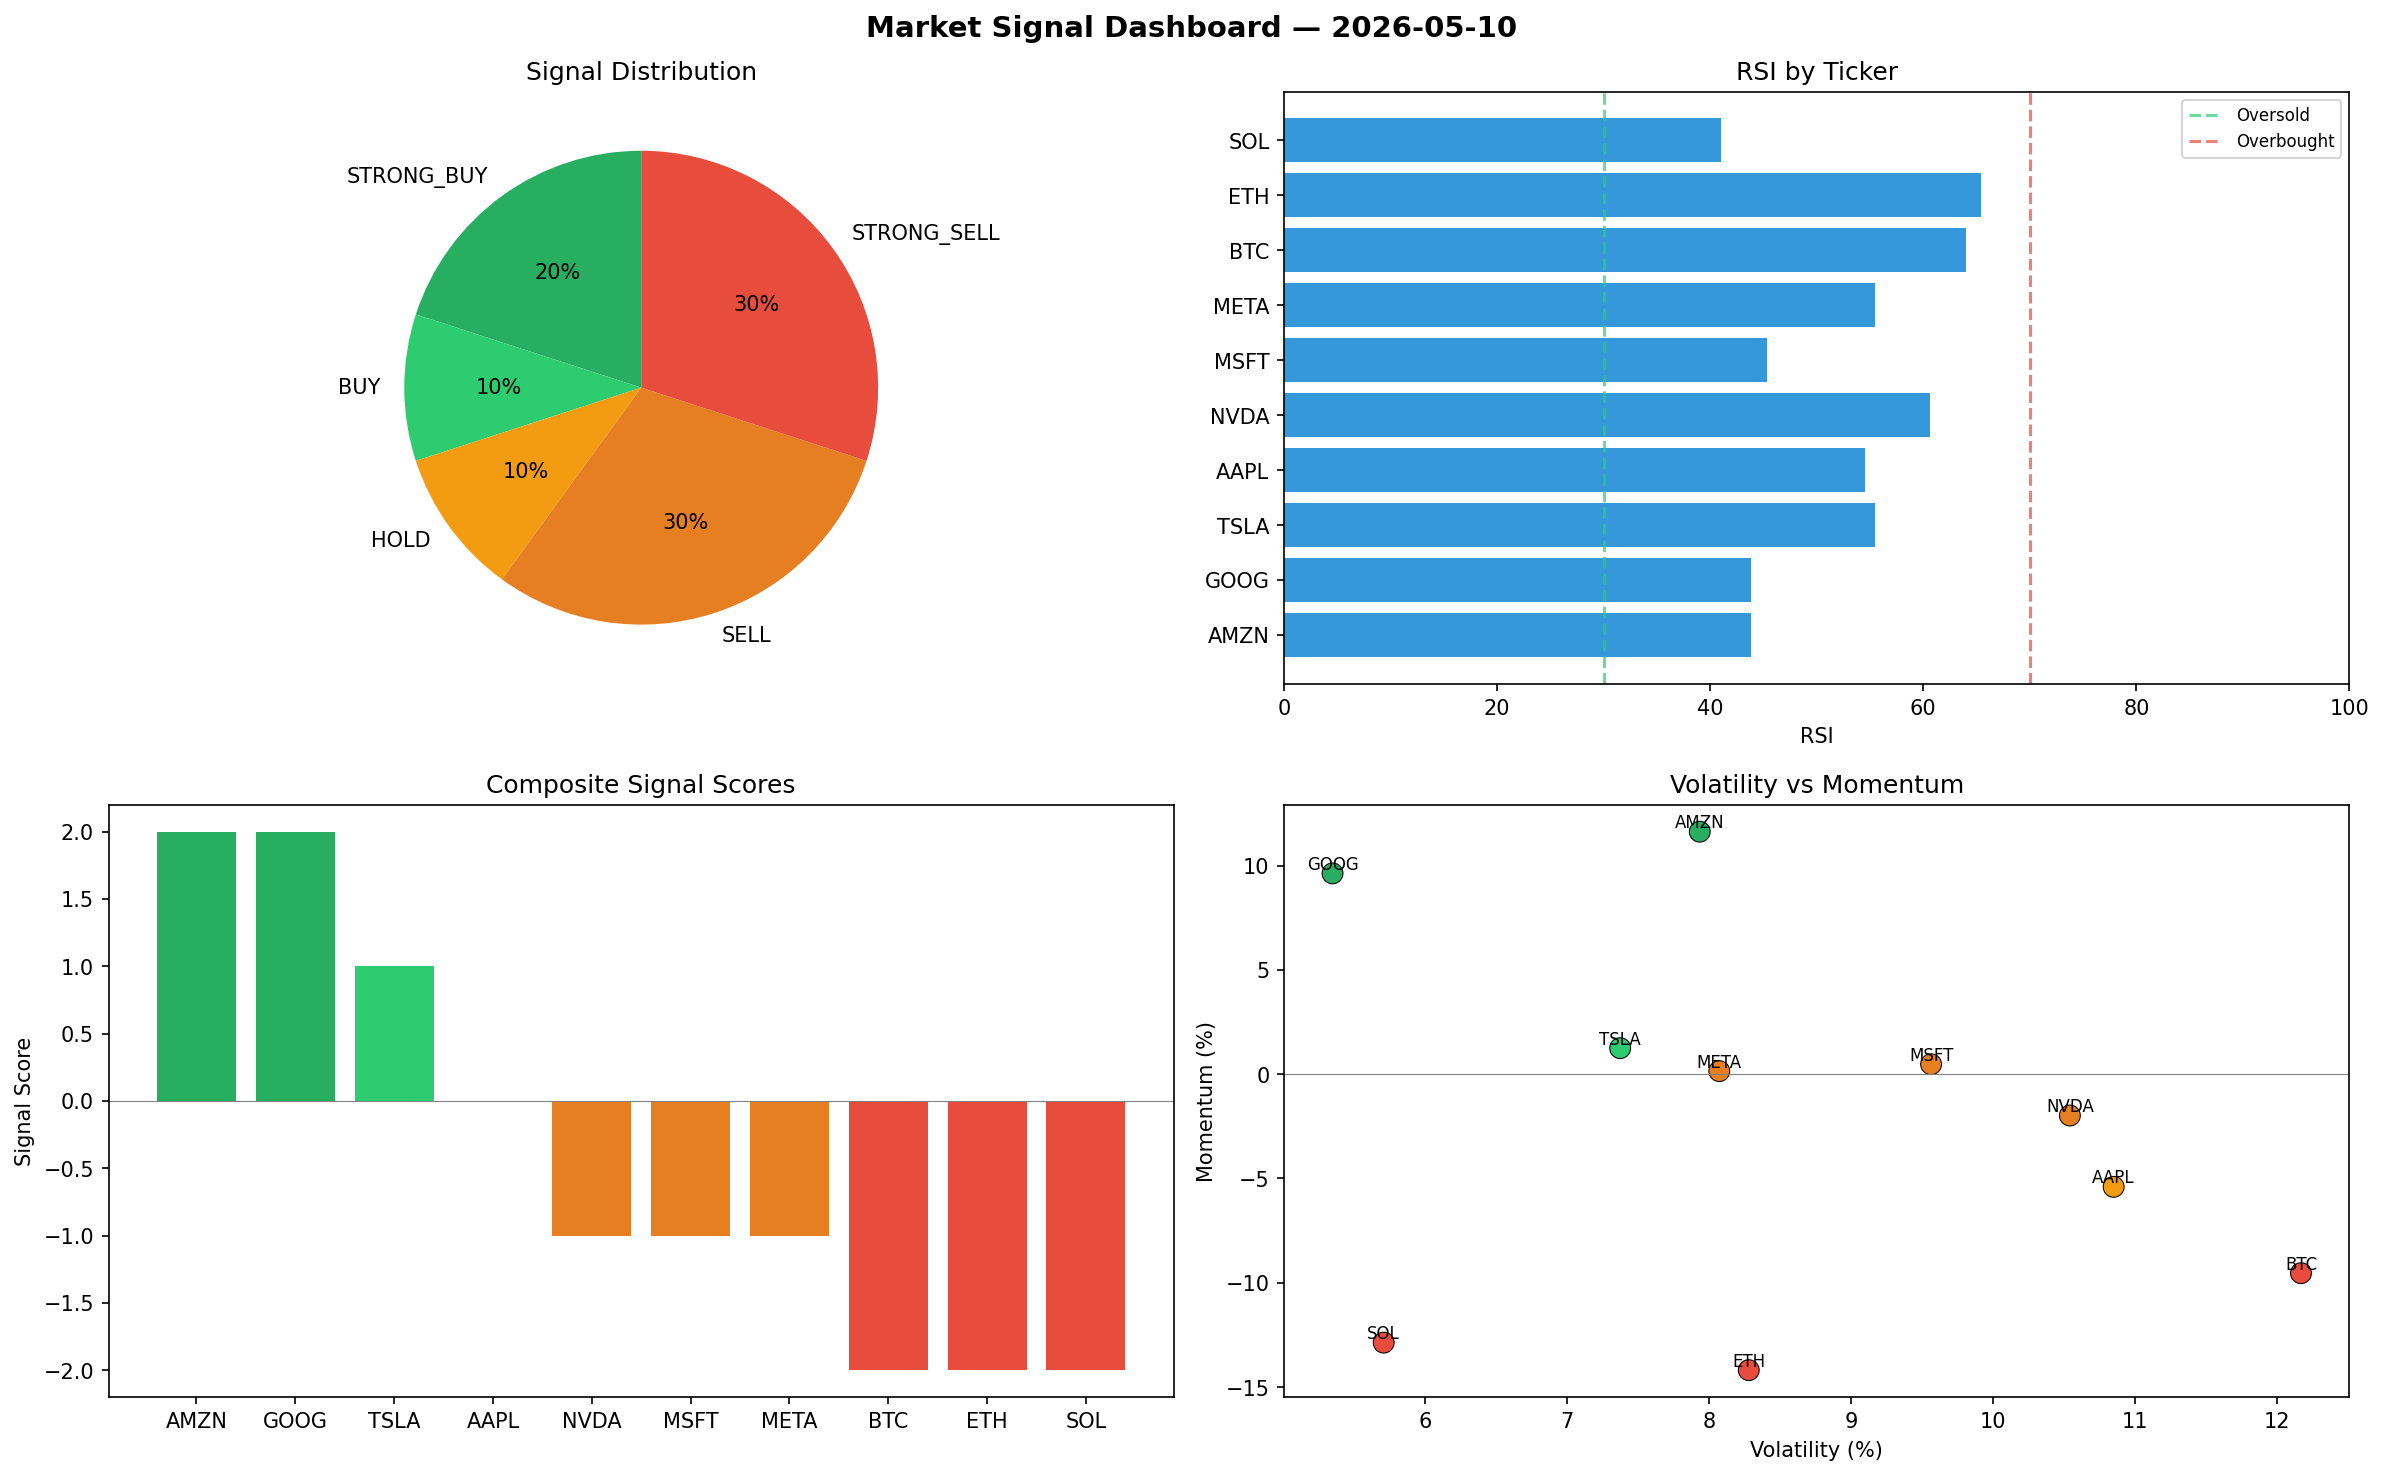
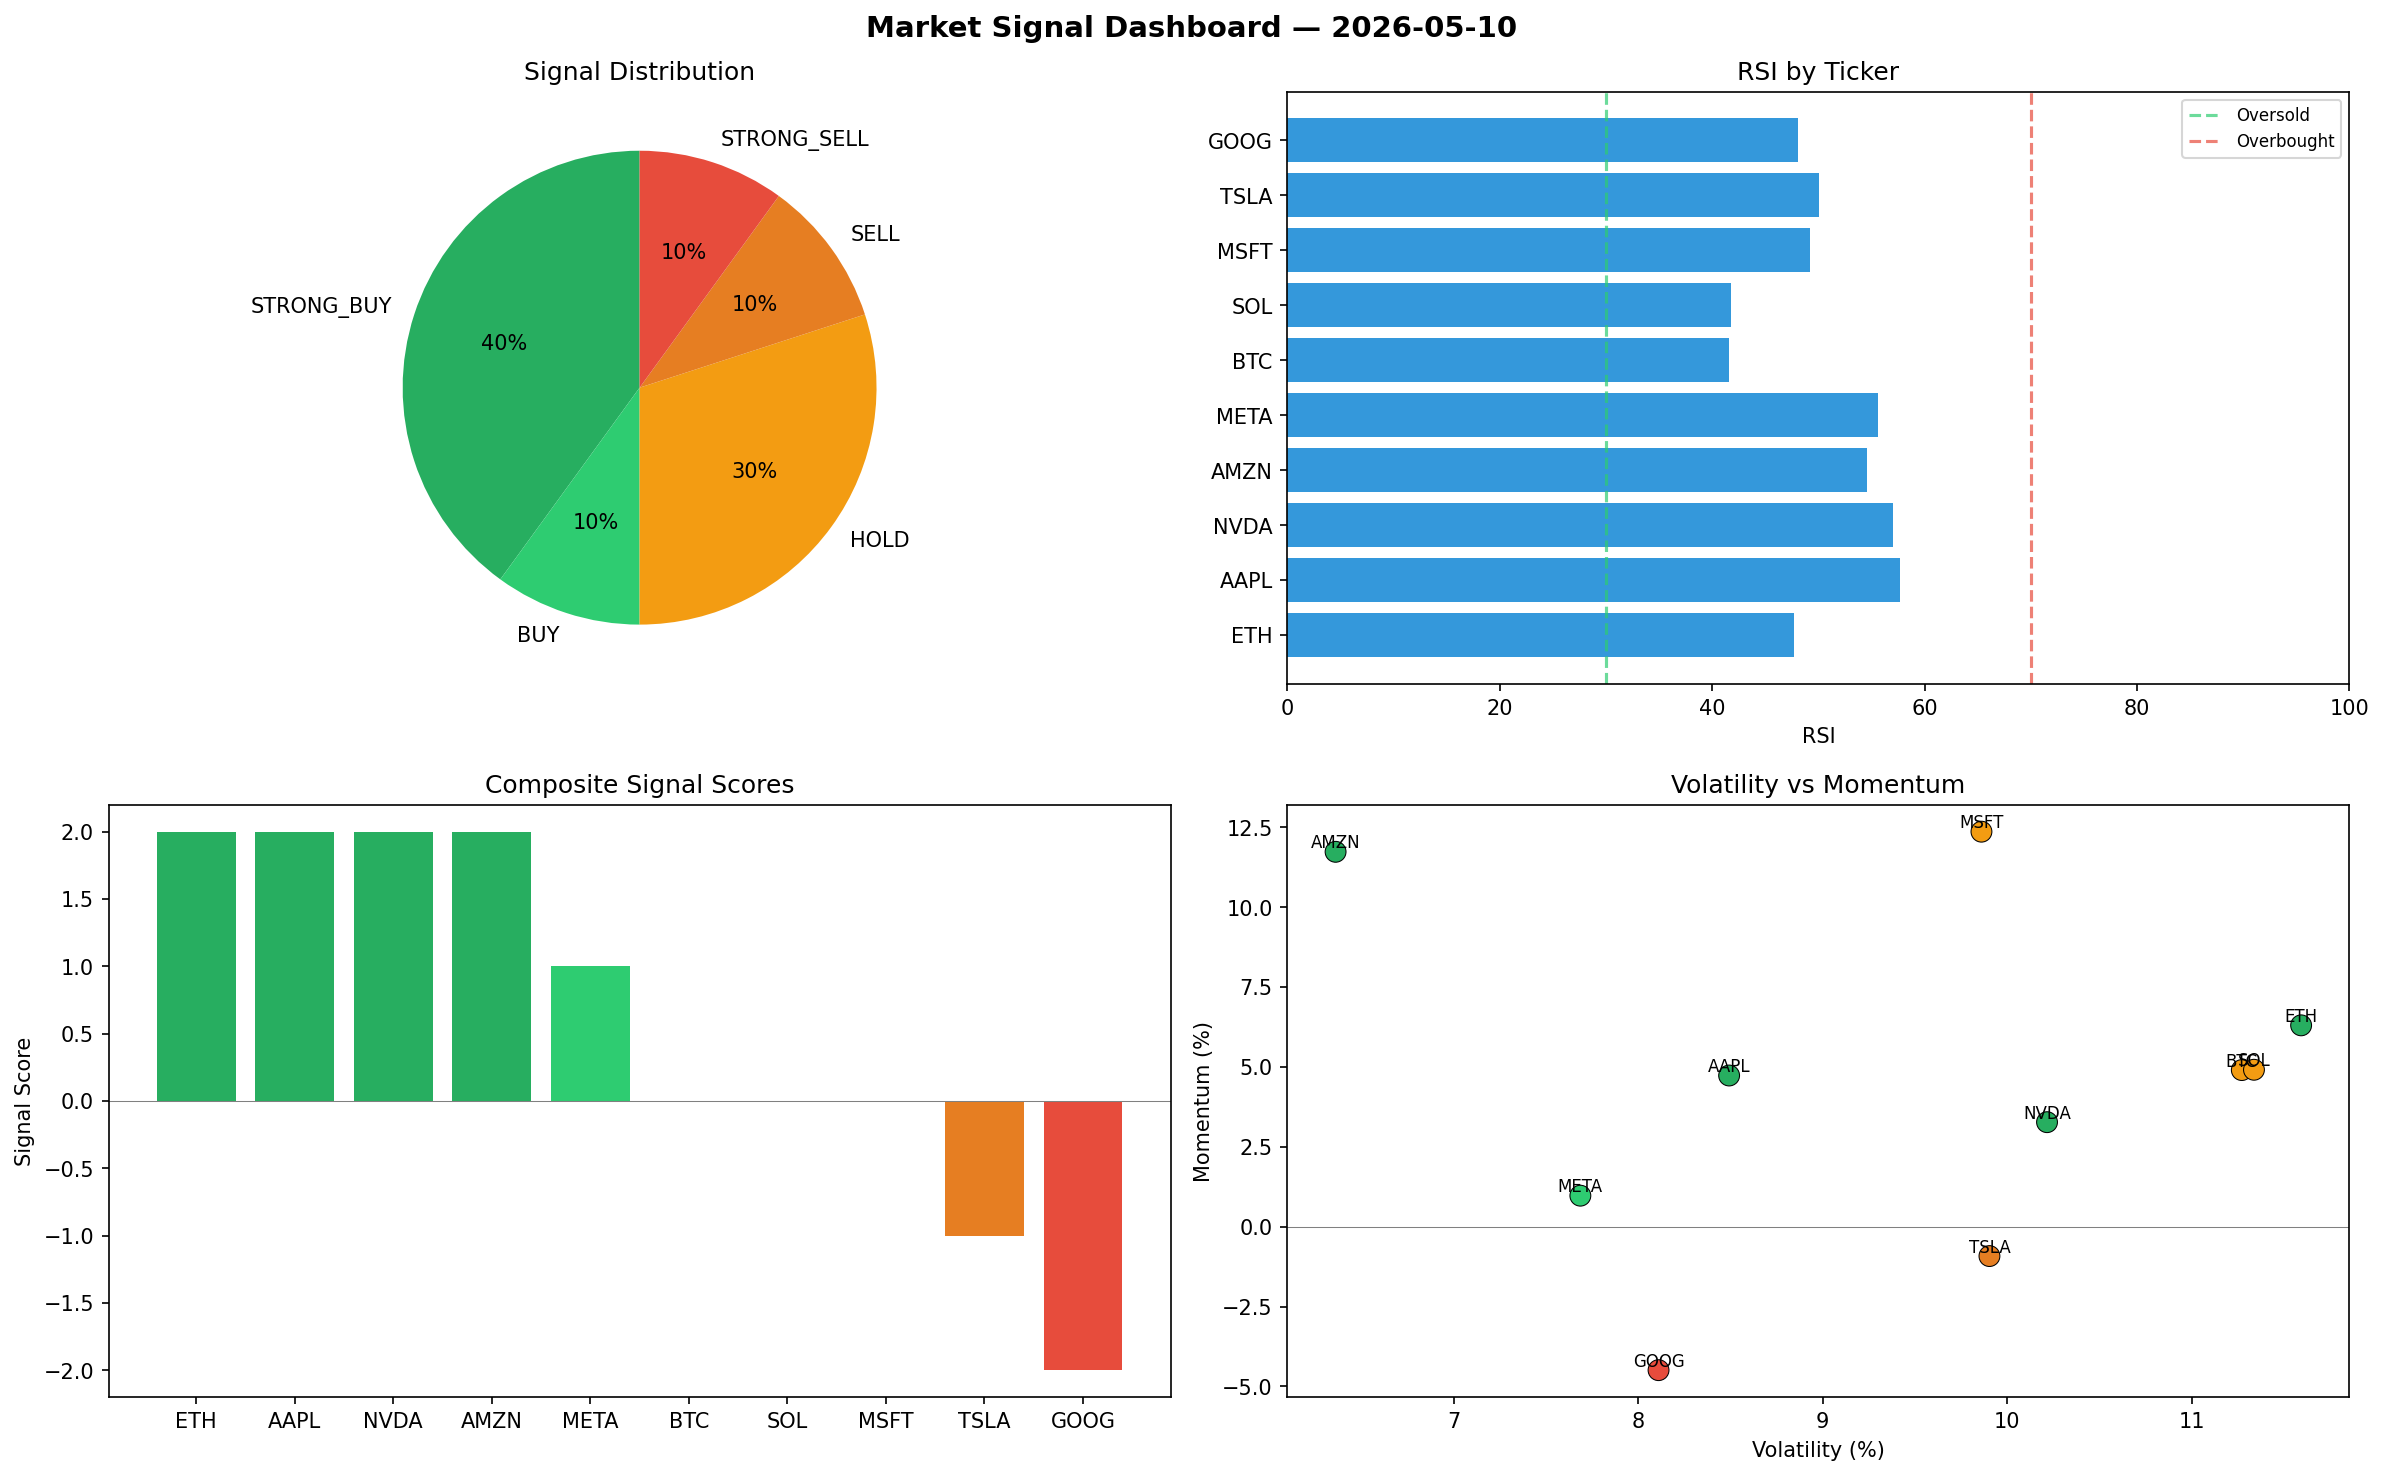
automated-bots: market signals 2026-05-10T09:51

diff --git a/logs/2026-05-10.md b/logs/2026-05-10.md
@@ -1,6 +1,6 @@
 # Market Signal Report — 2026-05-10
 
-**Run ID:** `b2bc807502` | **Buy:** 3 | **Sell:** 6 | **Hold:** 1
+**Run ID:** `5d1755aaec` | **Buy:** 5 | **Sell:** 2 | **Hold:** 3
 
 ![Dashboard](2026-05-10_dashboard.png)
 
@@ -8,28 +8,28 @@
 
 | Ticker | Price | Signal | Score | RSI | Momentum | Confidence |
 |--------|-------|--------|-------|-----|----------|------------|
-| AMZN | $972.81 | **STRONG_BUY** | 2 | 43.81 | 0.1163 | 0.5 |
-| GOOG | $707.75 | **STRONG_BUY** | 2 | 43.86 | 0.0963 | 0.5 |
-| TSLA | $4072.6 | **BUY** | 1 | 55.45 | 0.0125 | 0.25 |
-| AAPL | $3035.9 | **HOLD** | 0 | 54.54 | -0.054 | 0.0 |
-| NVDA | $2009.59 | **SELL** | -1 | 60.59 | -0.0198 | 0.25 |
-| MSFT | $1263.43 | **SELL** | -1 | 45.36 | 0.0048 | 0.25 |
-| META | $1052.63 | **SELL** | -1 | 55.44 | 0.0015 | 0.25 |
-| BTC | $3261.93 | **STRONG_SELL** | -2 | 64.03 | -0.0954 | 0.5 |
-| ETH | $58.72 | **STRONG_SELL** | -2 | 65.44 | -0.1419 | 0.5 |
-| SOL | $3187.99 | **STRONG_SELL** | -2 | 40.98 | -0.1287 | 0.5 |
+| ETH | $3118.98 | **STRONG_BUY** | 2 | 47.67 | 0.063 | 0.5 |
+| AAPL | $3471.93 | **STRONG_BUY** | 2 | 57.71 | 0.0473 | 0.5 |
+| NVDA | $956.42 | **STRONG_BUY** | 2 | 56.99 | 0.0327 | 0.5 |
+| AMZN | $2130.55 | **STRONG_BUY** | 2 | 54.59 | 0.1173 | 0.5 |
+| META | $3858.69 | **BUY** | 1 | 55.64 | 0.0097 | 0.25 |
+| BTC | $3127.12 | **HOLD** | 0 | 41.61 | 0.049 | 0.0 |
+| SOL | $996.15 | **HOLD** | 0 | 41.73 | 0.0491 | 0.0 |
+| MSFT | $19.27 | **HOLD** | 0 | 49.23 | 0.1236 | 0.0 |
+| TSLA | $2145.73 | **SELL** | -1 | 50.06 | -0.0092 | 0.25 |
+| GOOG | $4719.44 | **STRONG_SELL** | -2 | 48.12 | -0.0449 | 0.5 |
 
 ## Delta vs Yesterday
 
 | Ticker | Today | Yesterday | Price Change | Signal Changed |
 |--------|-------|-----------|-------------|----------------|
-| AMZN | STRONG_BUY | STRONG_BUY | 📈 247.62% | — |
-| GOOG | STRONG_BUY | SELL | 📉 -28.67% | ⚠ YES |
-| TSLA | BUY | BUY | 📈 4.31% | — |
-| AAPL | HOLD | HOLD | 📈 117.39% | — |
-| NVDA | SELL | STRONG_SELL | 📈 2.58% | ⚠ YES |
-| MSFT | SELL | SELL | 📉 -70.96% | — |
-| META | SELL | STRONG_BUY | 📉 -19.49% | ⚠ YES |
-| BTC | STRONG_SELL | STRONG_BUY | 📉 -15.03% | ⚠ YES |
-| ETH | STRONG_SELL | STRONG_BUY | 📉 -97.27% | ⚠ YES |
-| SOL | STRONG_SELL | STRONG_SELL | 📉 -19.14% | — |
+| ETH | STRONG_BUY | STRONG_BUY | 📈 44.87% | — |
+| AAPL | STRONG_BUY | HOLD | 📈 148.61% | ⚠ YES |
+| NVDA | STRONG_BUY | STRONG_SELL | 📉 -51.18% | ⚠ YES |
+| AMZN | STRONG_BUY | STRONG_BUY | 📈 661.32% | — |
+| META | BUY | STRONG_BUY | 📈 195.13% | ⚠ YES |
+| BTC | HOLD | STRONG_BUY | 📉 -18.54% | ⚠ YES |
+| SOL | HOLD | STRONG_SELL | 📉 -74.73% | ⚠ YES |
+| MSFT | HOLD | SELL | 📉 -99.56% | ⚠ YES |
+| TSLA | SELL | BUY | 📉 -45.04% | ⚠ YES |
+| GOOG | STRONG_SELL | SELL | 📈 375.67% | ⚠ YES |
